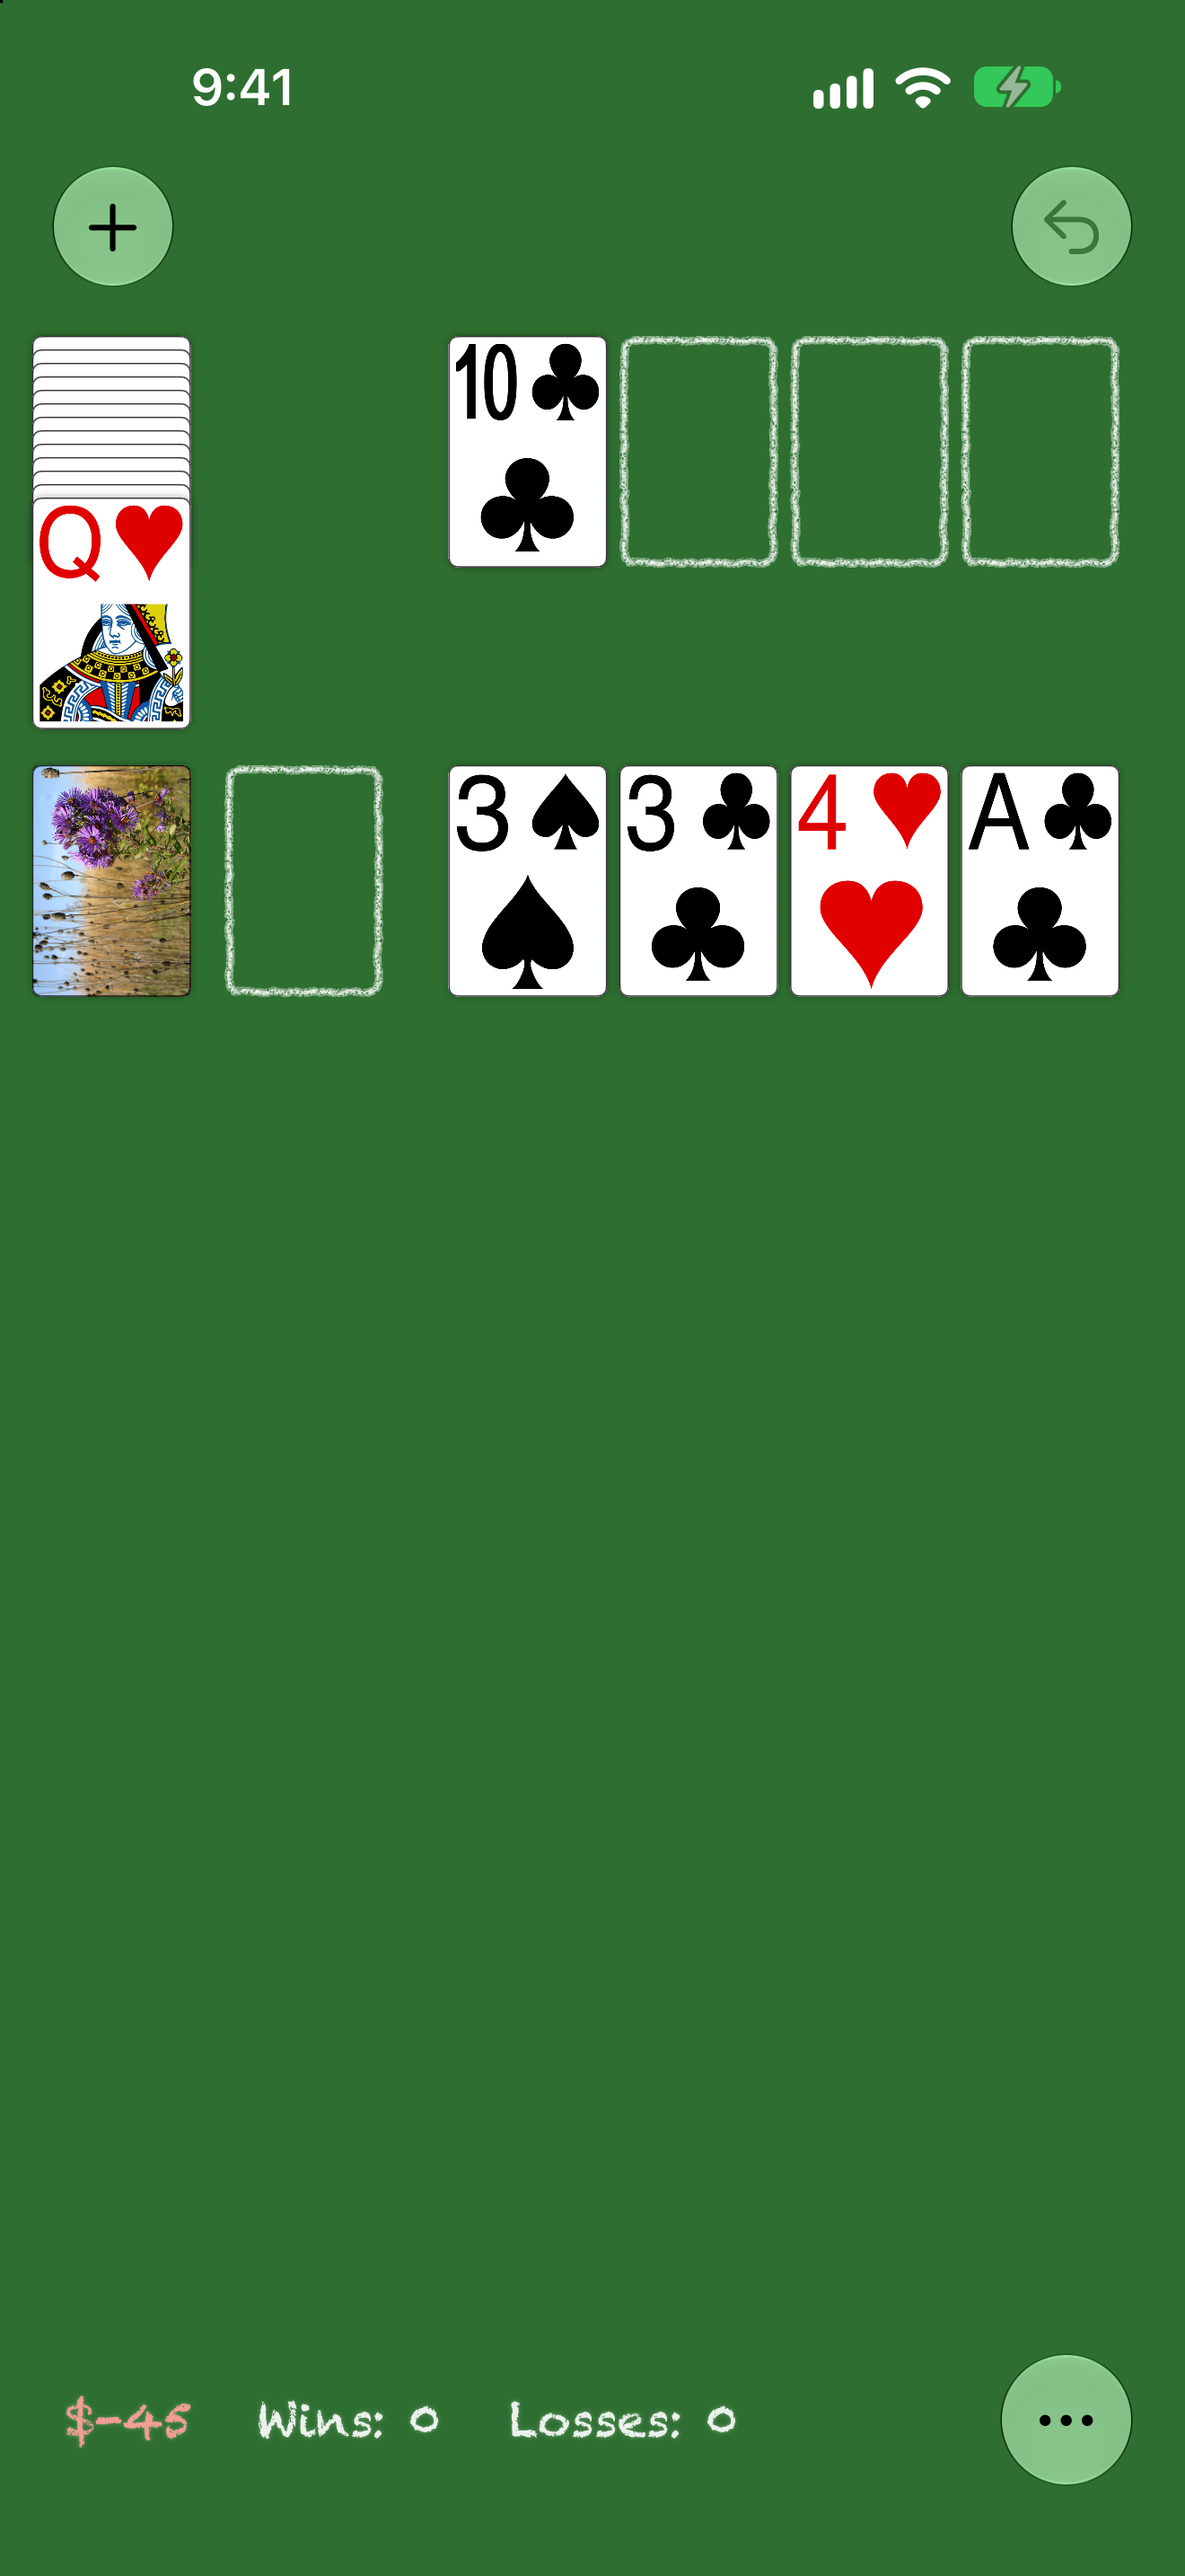
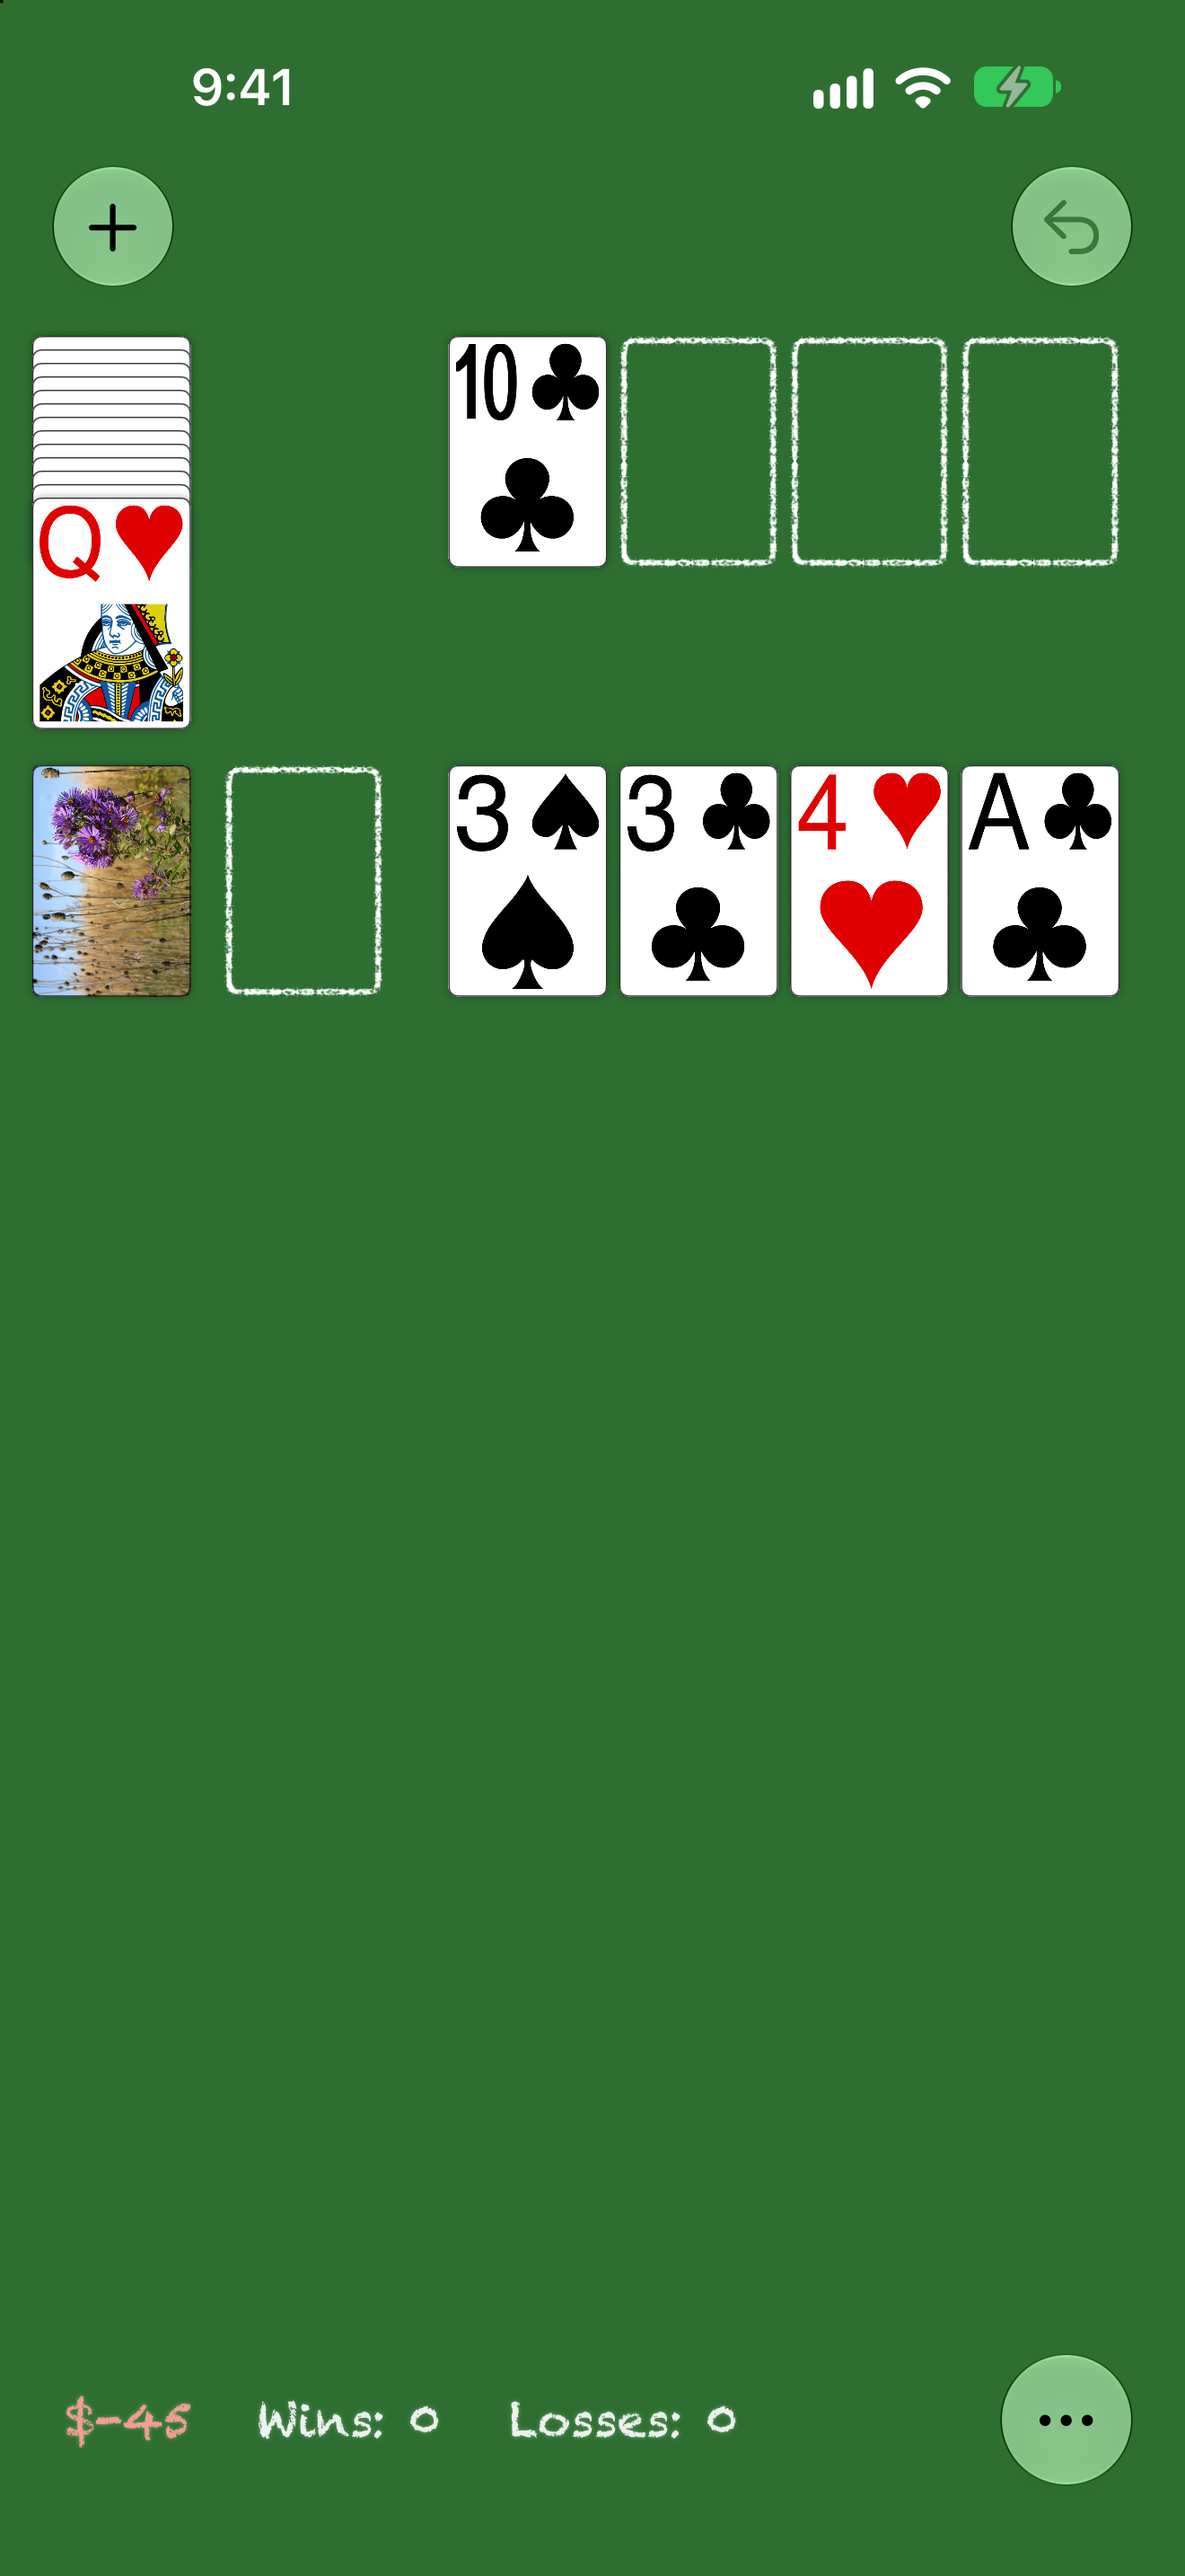
Draw the stack outlines like a real chalk line
A straight line of worn chalk with irregular clumps along its edges that fade the further out they are, in place of
the wobbly, speckled stroke.

Claude-Session: https://claude.ai/code/session_01CE1d5xP9GvDtiA7Rei4bWG

diff --git a/Suze Solitaire/CardStack.swift b/Suze Solitaire/CardStack.swift
@@ -47,11 +47,11 @@ class CardStack: NSObject {
     var stackZ = Int()
     var view   = UIView()
     // The card-sized outline of the stack's spot, chalked on the felt like the score: under its cards, so it shows
-    // whenever they're moved off it.  It's a speckled chalk texture showing through a wobbly rounded-rectangle stroke
-    // with a dusty fringe.
+    // whenever they're moved off it.  It's a chalk texture with gaps worn into it, showing through a straight
+    // rounded-rectangle stroke with clumps of chalk along its edges.
     let outline = CALayer()
     let outlineStroke = CAShapeLayer()
-    let outlineDust   = CAShapeLayer()
+    let outlineClumps = [CAShapeLayer(), CAShapeLayer(), CAShapeLayer(), CAShapeLayer()]
     // How far apart cards in the blind (fub) and deal are fanned
     static let fannedSliceHeight = 5
     // Softer on the dimmer dark-mode felt.  ViewController.applyAppearance sets isDark.
@@ -62,23 +62,23 @@ class CardStack: NSObject {
     static let lightChalk = CardStack.chalk(alpha: 1).cgColor
     static let darkChalk  = CardStack.chalk(alpha: 0.6).cgColor
 
-    // White chalk dust: specks of varying strength with the odd gap, the same every launch
+    // Chalk: solid white, worn through in small irregular spots, the same every launch
     static func chalk(alpha: CGFloat) -> UIColor {
         var generator = SeededGenerator(seed: 52)
         let format = UIGraphicsImageRendererFormat()
         format.scale  = 2
         format.opaque = false
-        let size  = 64
+        let size  = CGFloat(64)
         let image = UIGraphicsImageRenderer(size: CGSize(width: size, height: size), format: format).image { context in
-            for y in 0..<(size * 2) {
-                for x in 0..<(size * 2) {
-                    let roll = Double.random(in: 0..<1, using: &generator)
-                    if roll < 0.12 {
-                        continue
-                    }
-                    UIColor.white.withAlphaComponent(alpha * CGFloat(0.5 + 0.5 * roll)).setFill()
-                    context.fill(CGRect(x: CGFloat(x) / 2, y: CGFloat(y) / 2, width: 0.5, height: 0.5))
-                }
+            UIColor.white.withAlphaComponent(alpha).setFill()
+            context.fill(CGRect(x: 0, y: 0, width: size, height: size))
+            context.cgContext.setBlendMode(.clear)
+            for _ in 0..<1800 {
+                let x = CGFloat.random(in: 0..<size, using: &generator)
+                let y = CGFloat.random(in: 0..<size, using: &generator)
+                let w = CGFloat.random(in: 0.3...1.4, using: &generator)
+                let h = CGFloat.random(in: 0.3...1.1, using: &generator)
+                context.cgContext.fillEllipse(in: CGRect(x: x, y: y, width: w, height: h))
             }
         }
         return UIColor(patternImage: image)
@@ -109,58 +109,36 @@ class CardStack: NSObject {
         self.stackType = type
         self.outlineStroke.fillColor   = nil
         self.outlineStroke.strokeColor = UIColor.black.cgColor
-        self.outlineStroke.lineWidth   = 1.5
-        self.outlineStroke.lineJoin    = .round
-        // Specks of chalk dust either side of the line
-        self.outlineDust.fillColor   = nil
-        self.outlineDust.strokeColor = UIColor.black.cgColor
-        self.outlineDust.lineWidth   = 3.2
-        self.outlineDust.lineCap     = .round
-        self.outlineDust.lineDashPattern = [0.4, 1.3, 0.2, 0.8, 0.6, 2.2, 0.3, 1, 0.5, 1.7]
-        self.outlineDust.opacity     = 0.55
+        self.outlineStroke.lineWidth   = 1
+        // Lumps of chalk of different sizes along the line make its edges ragged: a few wide ones far apart, more
+        // middling ones, and lots of small ones, at irregular lengths so they don't repeat in a pattern
+        var generator = SeededGenerator(seed: 7)
+        // The further out from the line, the fainter, so the chalk fades away at its edges
+        let clumps: [(width: CGFloat, dash: ClosedRange<CGFloat>, gap: ClosedRange<CGFloat>, cap: CAShapeLayerLineCap, opacity: Float)] = [
+            (2.5, 0.4...2.2, 2...7, .round, 0.6),
+            (2, 0.6...3.5, 0.8...3, .round, 0.8),
+            (1.7, 0.2...1, 0.2...1.2, .butt, 0.9),
+            // Stray flecks just off the line
+            (3.4, 0.2...0.6, 0.6...3, .butt, 0.35),
+        ]
         let mask = CALayer()
         mask.addSublayer(self.outlineStroke)
-        mask.addSublayer(self.outlineDust)
+        for (layer, clump) in zip(self.outlineClumps, clumps) {
+            layer.fillColor   = nil
+            layer.strokeColor = UIColor.black.cgColor
+            layer.lineWidth   = clump.width
+            layer.lineCap     = clump.cap
+            layer.opacity     = clump.opacity
+            layer.lineDashPattern = (0..<40).map { i in
+                NSNumber(value: Double(CGFloat.random(in: i % 2 == 0 ? clump.dash : clump.gap, using: &generator)))
+            }
+            mask.addSublayer(layer)
+        }
         self.outline.mask = mask
         self.outline.backgroundColor = CardStack.outlineColor
         self.view.layer.insertSublayer(self.outline, at: 0)
     }
     
-    // A rounded rectangle traced by hand: points every couple of points around it, each nudged a little in or out
-    static func roughRoundedRect(_ rect: CGRect, cornerRadius radius: CGFloat) -> CGPath {
-        var generator = SeededGenerator(seed: UInt64(rect.width * 31 + rect.height))
-        var points = [CGPoint]()
-        // Corner centers and the angles their quarter circles start at, clockwise from the top left
-        let corners = [(CGPoint(x: rect.minX + radius, y: rect.minY + radius), CGFloat.pi),
-                       (CGPoint(x: rect.maxX - radius, y: rect.minY + radius), CGFloat.pi * 1.5),
-                       (CGPoint(x: rect.maxX - radius, y: rect.maxY - radius), 0),
-                       (CGPoint(x: rect.minX + radius, y: rect.maxY - radius), CGFloat.pi / 2)]
-        for (i, (center, start)) in corners.enumerated() {
-            for step in 0...4 {
-                let angle = start + CGFloat.pi / 2 * CGFloat(step) / 4
-                let wobble = radius + CGFloat.random(in: -0.4...0.4, using: &generator)
-                points.append(CGPoint(x: center.x + cos(angle) * wobble, y: center.y + sin(angle) * wobble))
-            }
-            // The straight side to the next corner
-            let end   = points.last!
-            let next  = corners[(i + 1) % 4]
-            let nextStart = CGPoint(x: next.0.x + cos(next.1) * radius, y: next.0.y + sin(next.1) * radius)
-            let length = hypot(nextStart.x - end.x, nextStart.y - end.y)
-            let steps  = max(1, Int(length / 2.5))
-            let normal = CGPoint(x: (nextStart.y - end.y) / length, y: -(nextStart.x - end.x) / length)
-            for step in 1..<steps {
-                let t = CGFloat(step) / CGFloat(steps)
-                let nudge = CGFloat.random(in: -0.45...0.45, using: &generator)
-                points.append(CGPoint(x: end.x + (nextStart.x - end.x) * t + normal.x * nudge,
-                                      y: end.y + (nextStart.y - end.y) * t + normal.y * nudge))
-            }
-        }
-        let path = CGMutablePath()
-        path.addLines(between: points)
-        path.closeSubpath()
-        return path
-    }
-
     // ViewController.applyAppearance calls this when dark mode changes
     func updateOutlineColor() {
         self.outline.backgroundColor = CardStack.outlineColor
@@ -175,13 +153,13 @@ class CardStack: NSObject {
         CATransaction.setDisableActions(true)
         let bounds = CGRect(x: 0, y: 0, width: width, height: cardHeight)
         let radius = CGFloat(width) * Card.cornerRadiusFraction
-        let path = CardStack.roughRoundedRect(bounds.insetBy(dx: 1.8, dy: 1.8), cornerRadius: radius)
+        let path = UIBezierPath(roundedRect: bounds.insetBy(dx: 1.8, dy: 1.8), cornerRadius: radius).cgPath
         self.outline.frame = bounds
-        for layer in [self.outline.mask, self.outlineStroke, self.outlineDust] {
-            layer?.frame = bounds
+        self.outline.mask?.frame = bounds
+        for layer in [self.outlineStroke] + self.outlineClumps {
+            layer.frame = bounds
+            layer.path  = path
         }
-        self.outlineStroke.path = path
-        self.outlineDust.path   = path
         CATransaction.commit()
         // Make stacking tighter in the iPhone-style layout
         if self.stackType == .suitstack || self.stackType == .cardstack {
